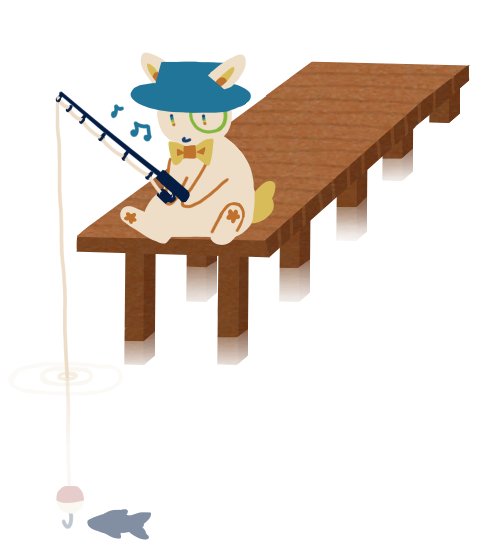
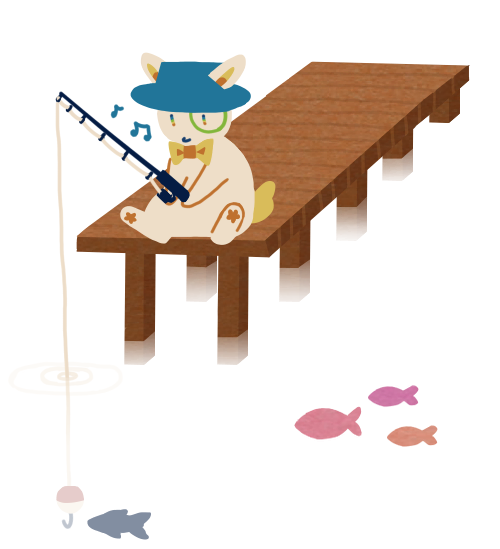
add fih

Changed region(s): [[0.6, 0.7432, 0.72, 0.8051], [0.72, 0.6812, 0.84, 0.7432], [0.78, 0.7741, 0.87, 0.8361]]

diff --git a/public/css/index.css b/public/css/index.css
@@ -25,27 +25,37 @@ main {
     background-repeat: repeat-x; background-size:auto 100%;
     position: absolute; top: -4rem;
   }
-  &>a {
+  &>a, .fish {
     height: auto; max-width: 16rem;
     display: block; position: relative;
     padding: 0 1rem;
   }
+  .fish { box-sizing: border-box; padding: 0 2rem; max-width: 8rem;}
   #fishing { margin-left: auto; top: -2.5rem; }
   #liferaft { max-width: 8rem; left: 1rem; top: -2rem; padding-right: 2rem;}
+  #fish-1 { top: -1.5rem; margin-left: auto;}
+  #fish-2 { display: none;}
 }
 
 body footer { margin-top: 0;}
 /* Tablet view */
 @media screen and (min-width: 40rem) {
   main { padding: 2rem calc(10% - 1rem) 4rem; }
-  #beach { max-height: 25rem; }
-  #beach > #fishing { max-width: 20rem; right: 8%; top: -3rem;}
-  #beach > #liferaft { max-width: 10rem; left: 8%; top: -12rem;}
+  #beach { max-height: 25rem;
+    #fishing { max-width: 20rem; right: 8%; top: -3rem;}
+    #liferaft { max-width: 10rem; left: 8%; top: -12rem;}
+    #fish-1 { max-width: 9rem; right: 45%; top: -12rem; }
+    #fish-2 { display: block; max-width: 10rem; top: -27rem; left: 25%;}
+  }
 }
 
 /* Desktop view */
 @media screen and (min-width: 67rem) {
   main { padding: 2rem calc(20% - 1rem) 5rem; }
-  #beach > #fishing { max-width: 22rem; right: 20%;}
-  #beach > #liferaft { max-width: 12rem; left: 20%; top: -15rem;}
+  #beach { max-height: 25rem;
+    #fishing { max-width: 22rem; right: 15%;}
+    #liferaft { max-width: 12rem; left: 15%; top: -15rem;}
+    #fish-1 { right: 45%; right: 48%; top: -17rem; }
+    #fish-2 { max-width: 10rem; top: -30rem; left: 30%;}
+  }
 }

diff --git a/content/index.html b/content/index.html
@@ -12,6 +12,8 @@ style: index.css
 <section id="beach">
   <a id="fishing" href="/games/fishing/"><img src="/public/img/index/fishing.webp" onmouseleave="this.src='/public/img/index/fishing.webp';" onmouseenter="this.src='/public/img/index/fishing-hover.webp';" alt="Bunnyguy holding a fishing rod on a dock"></img></a>
   <a id="liferaft" href="/games/liferaft/"><img src="/public/img/index/liferaft.webp" onmouseleave="this.src='/public/img/index/liferaft.webp';" onmouseenter="this.src='/public/img/index/liferaft-hover.webp';" alt="Bunnyguy swimming in a red-and-white life raft"></img></a>
+  <img id="fish-1" class="fish" src="/public/img/index/fish-1.webp" alt="A school of yellow, blue, and green fish"></img>
+  <img id="fish-2" class="fish" src="/public/img/index/fish-2.webp" alt="A school of black, blue, and purple fish"></img>
 </section>
 
 <script src="https://pagering.gideon.sh/embed.js" defer></script>
